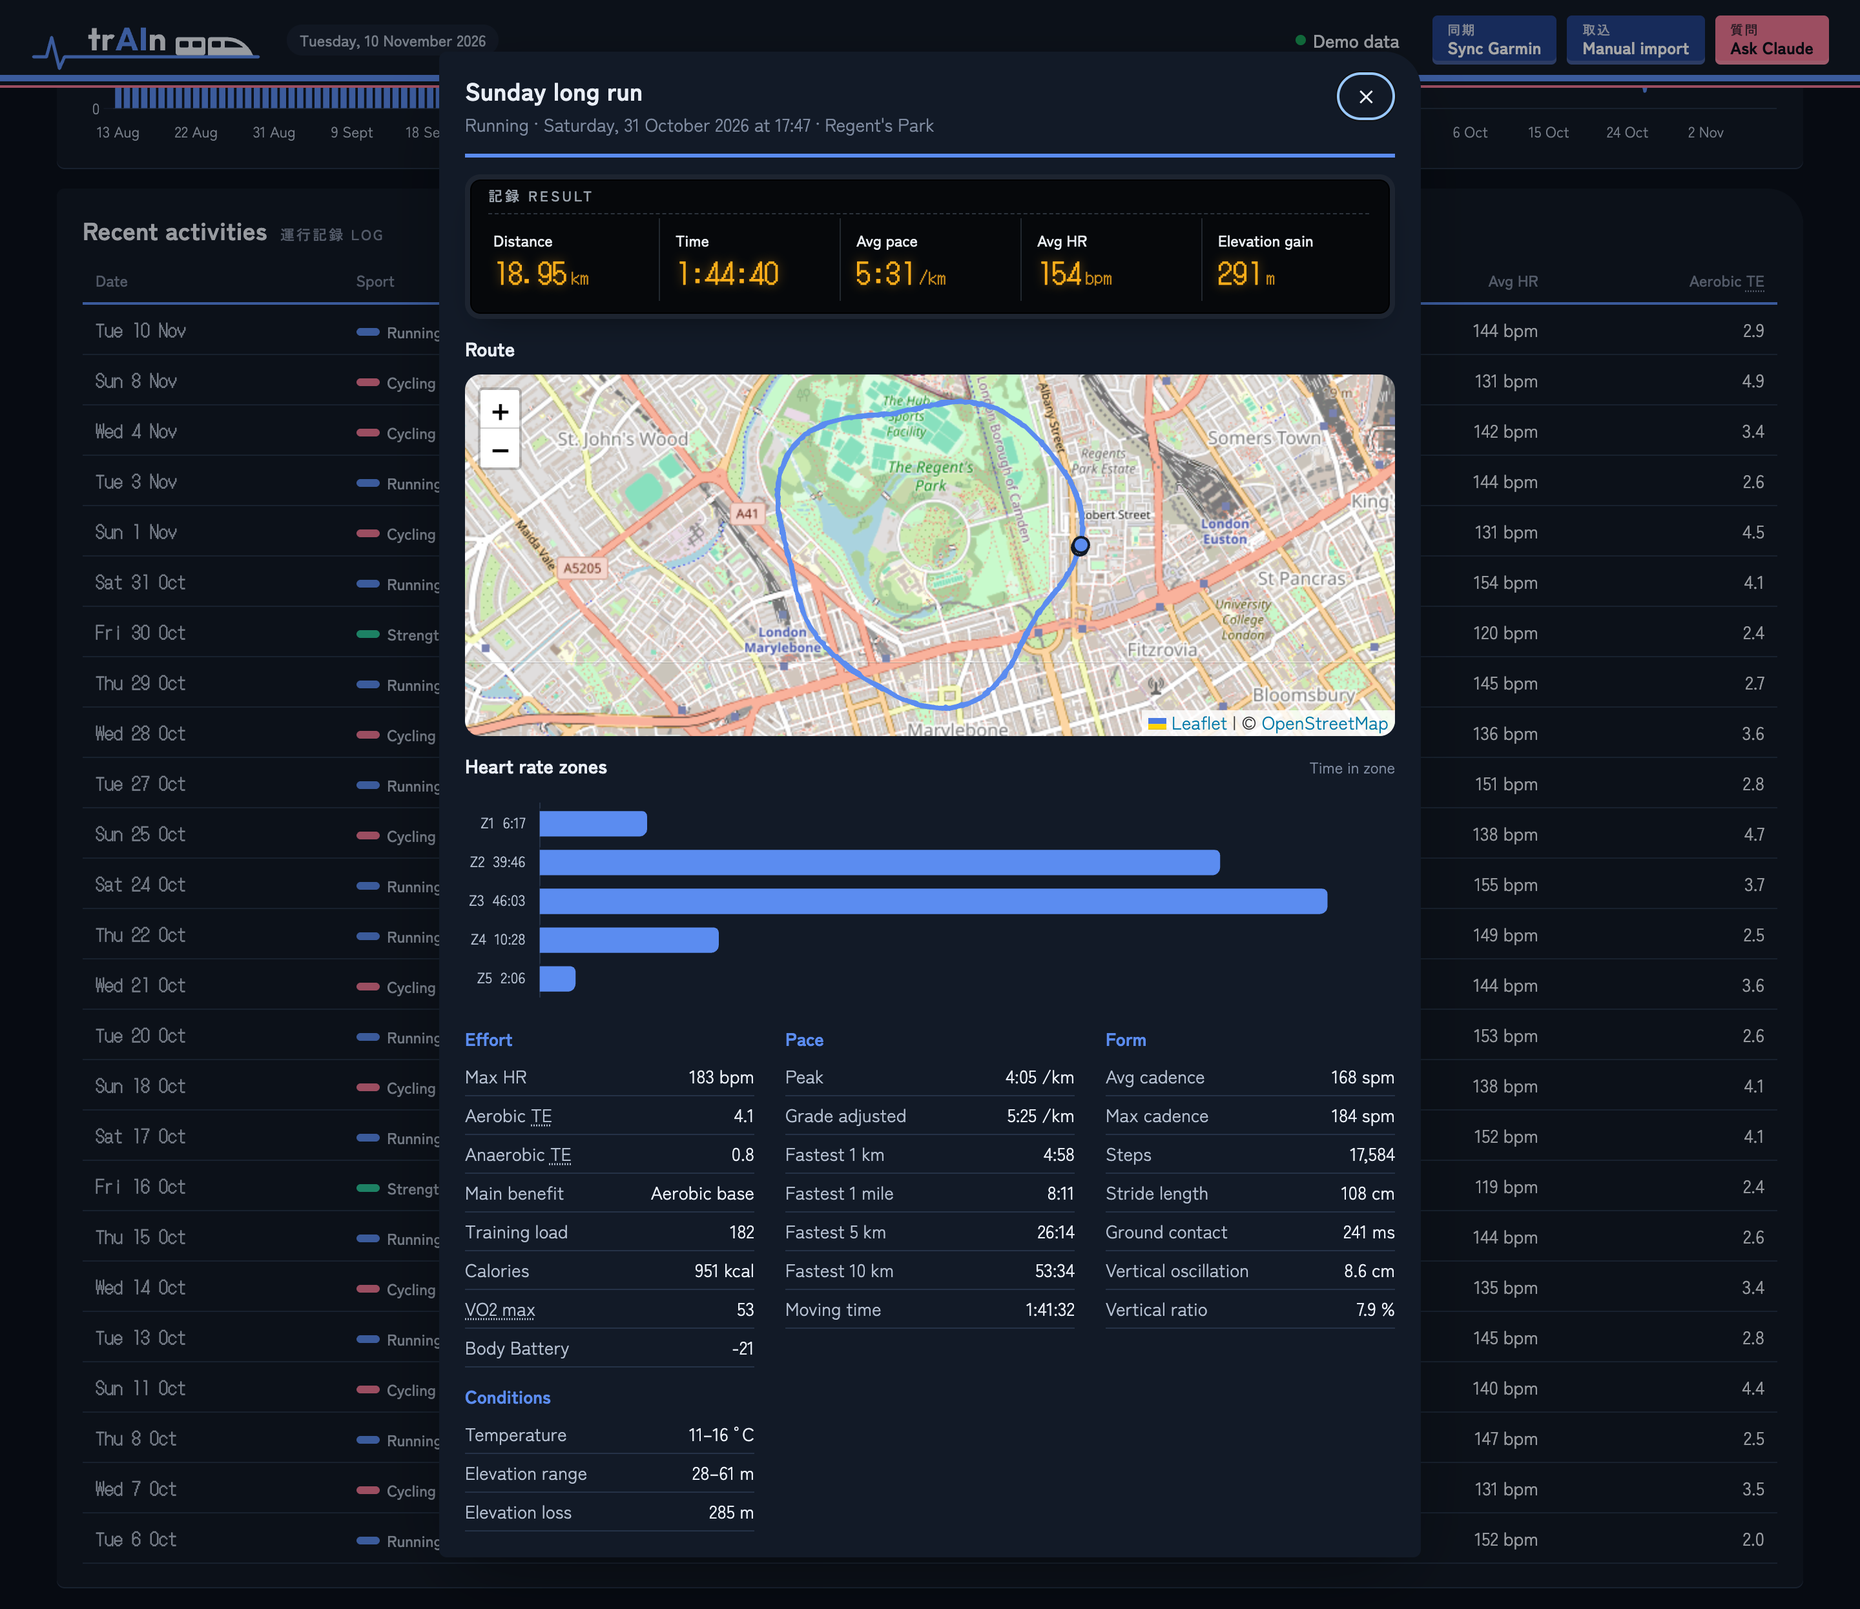
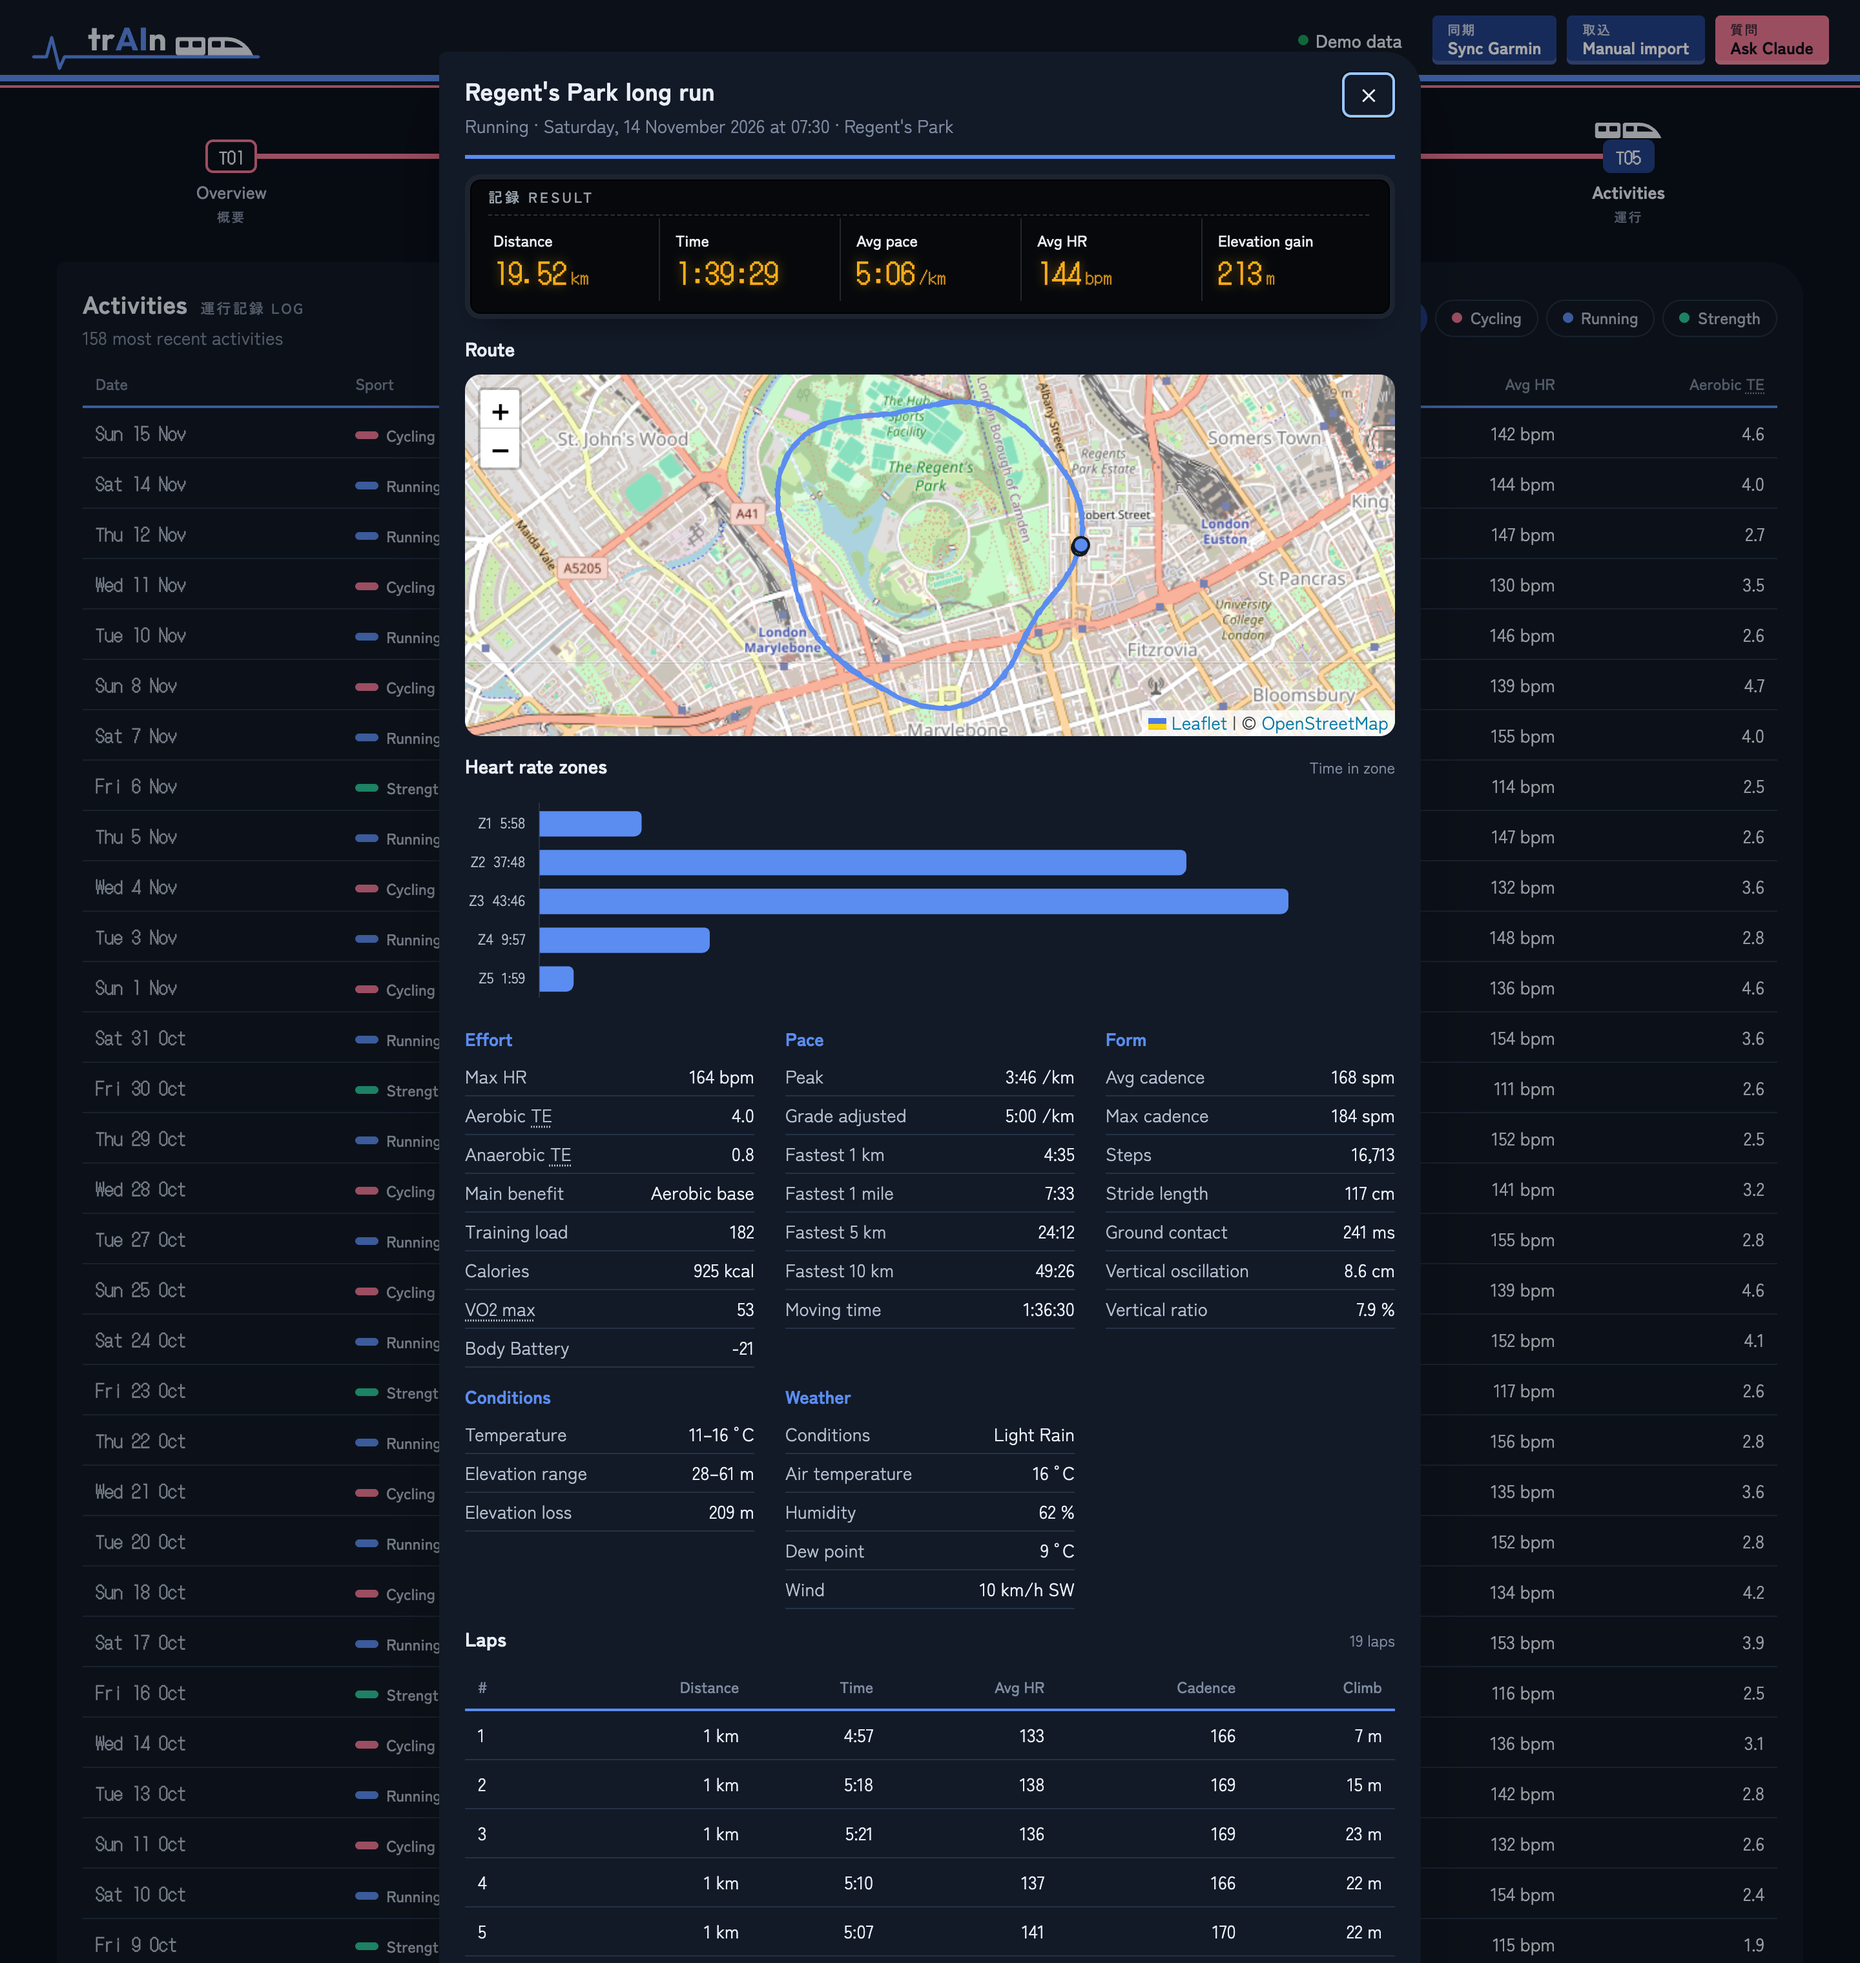
Update README screenshots and add a GIF of the tab nav
Captured in dark mode from generated demo data.

diff --git a/README.md b/README.md
@@ -12,11 +12,15 @@ and you don't need an API key.
   because Strava's API policy bans AI use of API data. Strava data isn't stored, apart from any figures
   quoted in saved insight reports.
 
-![Dashboard with training load, wellness charts and insights](docs/screenshots/dashboard.png)
+![Overview tab with insights, training readiness and weekly training time](docs/screenshots/dashboard.png)
 
-Click an activity to open it, with its route, heart rate zones and detailed stats:
+The dashboard is split into Overview, Training, Recovery, Performance and Activities tabs:
 
-![Activity detail with route map and heart rate zones](docs/screenshots/activity.png)
+![Switching between the dashboard tabs](docs/screenshots/tabs.gif)
+
+Click an activity to open it, with its route, heart rate zones, weather and laps:
+
+![Activity detail with route map, heart rate zones and laps](docs/screenshots/activity.png)
 
 _Screenshots use generated demo data._
 
